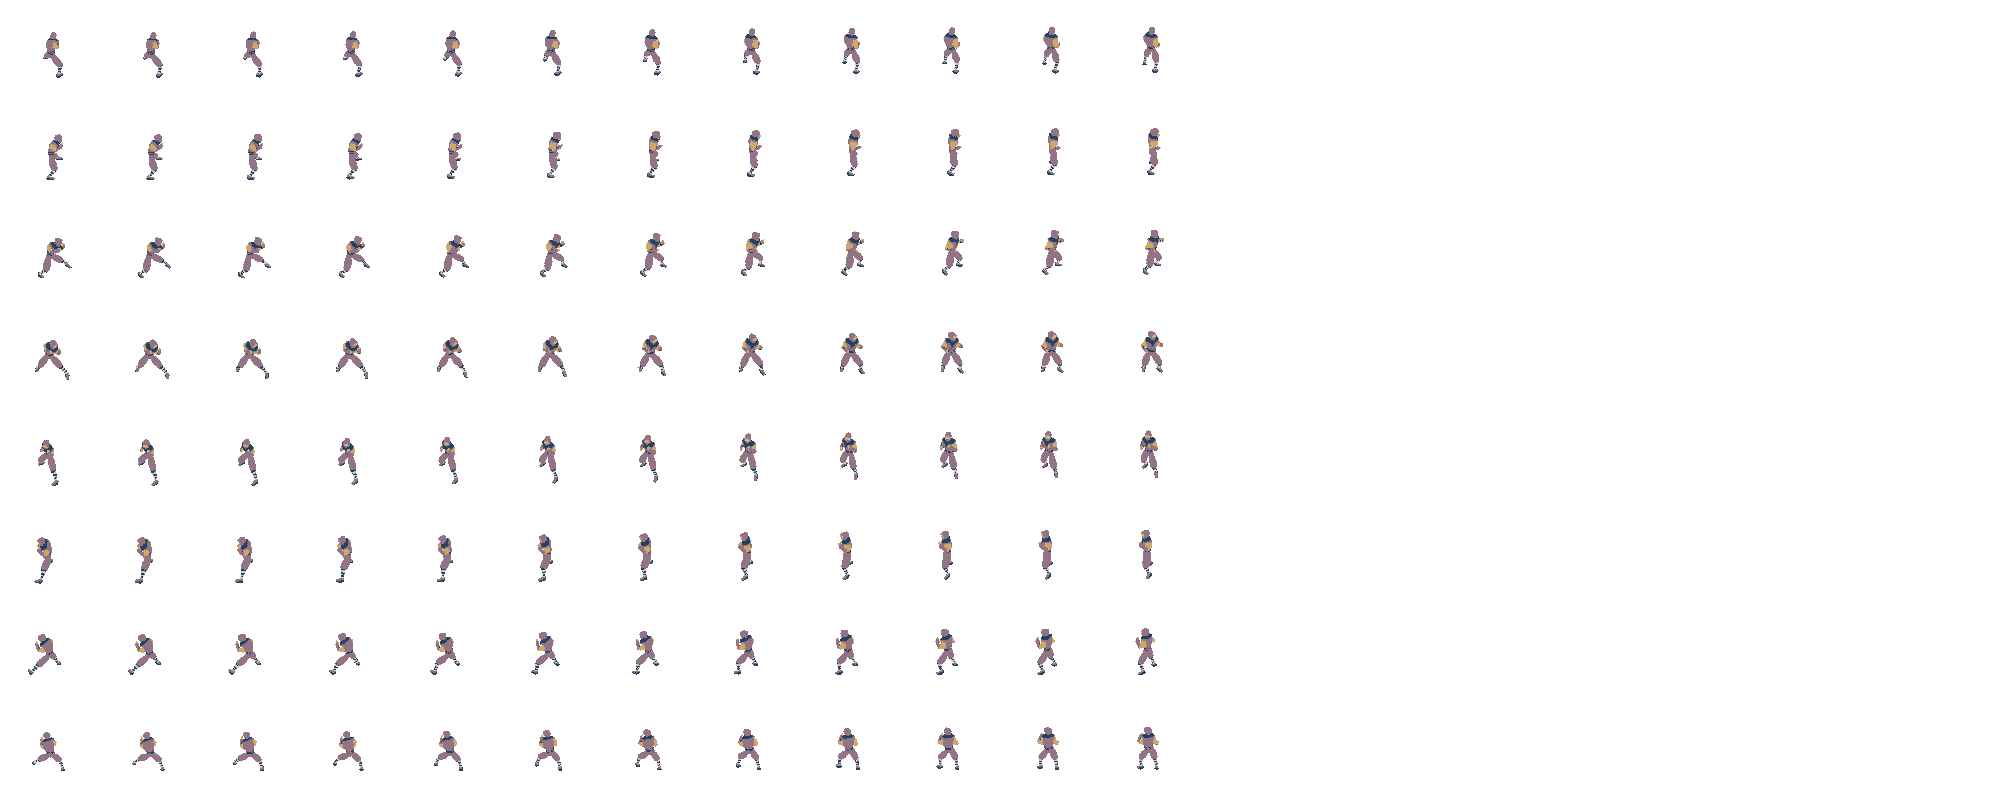
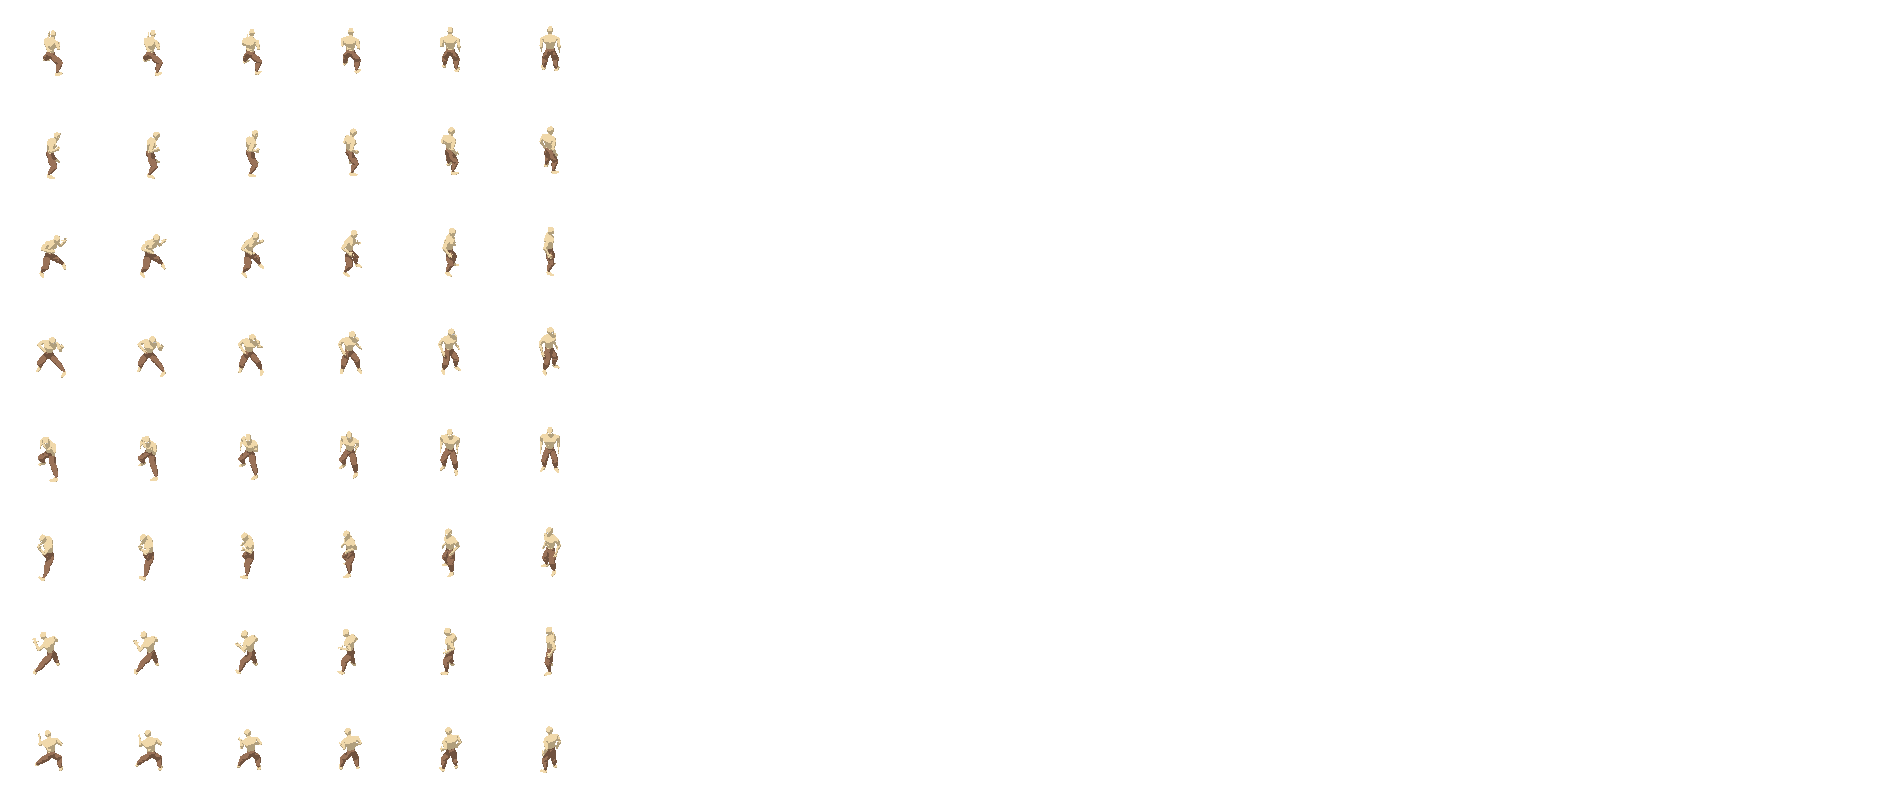
feat: Finish the new player graphics, add parry animations

diff --git a/src/assets/mod.rs b/src/assets/mod.rs
@@ -68,7 +68,6 @@ pub struct GameAssets {
             "dude/dude_parry.png",
             "dude/dude_parry_fail.png",
             "dude/dude_parry_success.png",
-            "dude/dude_parry_success_recover.png",
             "dude/dude_slide.png",
             "dude/dude_slide_recover.png",
             "dude/dude_jump.png",
@@ -259,14 +258,6 @@ pub struct GameAssets {
             "dude/dude.trickfilm.ron#parry_success-o5",
             "dude/dude.trickfilm.ron#parry_success-o6",
             "dude/dude.trickfilm.ron#parry_success-o7",
-            "dude/dude.trickfilm.ron#parry_success_recover-o0",
-            "dude/dude.trickfilm.ron#parry_success_recover-o1",
-            "dude/dude.trickfilm.ron#parry_success_recover-o2",
-            "dude/dude.trickfilm.ron#parry_success_recover-o3",
-            "dude/dude.trickfilm.ron#parry_success_recover-o4",
-            "dude/dude.trickfilm.ron#parry_success_recover-o5",
-            "dude/dude.trickfilm.ron#parry_success_recover-o6",
-            "dude/dude.trickfilm.ron#parry_success_recover-o7",
             "dude/dude.trickfilm.ron#slide-o0",
             "dude/dude.trickfilm.ron#slide-o1",
             "dude/dude.trickfilm.ron#slide-o2",

diff --git a/src/player/state/mod.rs b/src/player/state/mod.rs
@@ -198,6 +198,7 @@ fn transition_idle_state(
             DudeState::Attacking => match player.state_machine.attack() {
                 Attack::Hammerfist | Attack::Dropkick => {
                     if player.state_machine.jumping_timer_finished() {
+                        info!("he");
                         player
                             .state_machine
                             .transition_chain_attack(player_input.move_direction);
@@ -234,10 +235,7 @@ fn transition_idle_state(
                     ParryState::Start => player
                         .state_machine
                         .set_state(DudeState::Parrying(ParryState::Fail)),
-                    ParryState::Success => player
-                        .state_machine
-                        .set_state(DudeState::Parrying(ParryState::Recover)),
-                    ParryState::Recover | ParryState::Fail => {
+                    ParryState::Success | ParryState::Fail => {
                         player.state_machine.set_state(DudeState::Idling)
                     }
                 }

diff --git a/src/dude/animations.rs b/src/dude/animations.rs
@@ -31,7 +31,6 @@ pub enum DudeAnimations {
     Parry,
     ParryFail,
     ParrySuccess,
-    ParrySuccessRecover,
     Slide,
     SlideRecover,
     Jumping,
@@ -174,7 +173,6 @@ pub fn dude_state_animation(
                 ParryState::Start => DudeAnimations::Parry,
                 ParryState::Fail => DudeAnimations::ParryFail,
                 ParryState::Success => DudeAnimations::ParrySuccess,
-                ParryState::Recover => DudeAnimations::ParrySuccessRecover,
             };
             get_animation_data(assets, dude_animation, direction, false)
         }

diff --git a/src/player/state/state_machine.rs b/src/player/state/state_machine.rs
@@ -27,7 +27,6 @@ impl PlayerStateMachine {
             || (self.state == DudeState::Recovering
                 && (self.attack() != Attack::Dropkick && self.attack() != Attack::Hammerfist))
             || self.state == DudeState::Parrying(ParryState::Success)
-            || self.state == DudeState::Parrying(ParryState::Recover)
             || self.state == DudeState::Staggering && self.stagger.state().is_recovering()
     }
 

diff --git a/src/enemy/state/attack.rs b/src/enemy/state/attack.rs
@@ -20,7 +20,7 @@ impl Default for AttackHandler {
     fn default() -> Self {
         Self {
             attack: Attack::default(),
-            timer: Timer::from_seconds(1000.0, TimerMode::Once),
+            timer: Timer::from_seconds(1.0, TimerMode::Once),
             attack_direction: Vec2::default(),
         }
     }

diff --git a/src/dude/mod.rs b/src/dude/mod.rs
@@ -34,7 +34,6 @@ pub enum ParryState {
     Start,
     Fail,
     Success,
-    Recover,
 }
 
 #[derive(Default, Clone, Copy, PartialEq, Debug)]
